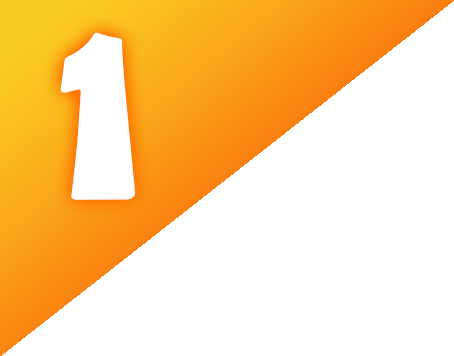
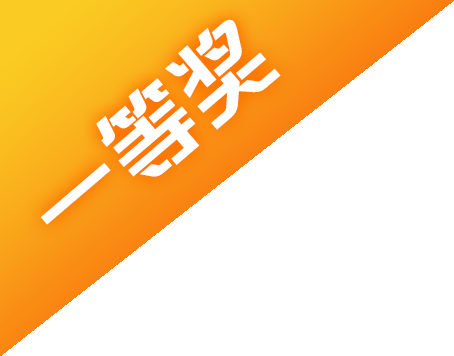
更新ranking图标

Changed region(s): [[0.0925, 0.0309, 0.6167, 0.6489]]

diff --git a/src/views/List/List.vue b/src/views/List/List.vue
@@ -464,7 +464,7 @@ export default class List extends Vue {
       position: absolute;
       left: 10px;
       top: 0;
-      width: 20px;
+      width: 24px;
     }
 
     .project-image {

diff --git a/src/views/Home/SlideTwo.vue b/src/views/Home/SlideTwo.vue
@@ -221,7 +221,7 @@ export default class SlideTwo extends Vue {
     position: absolute;
     top: 0;
     left: 0;
-    width: 70px;
+    width: 80px;
   }
 
   .project-image {
